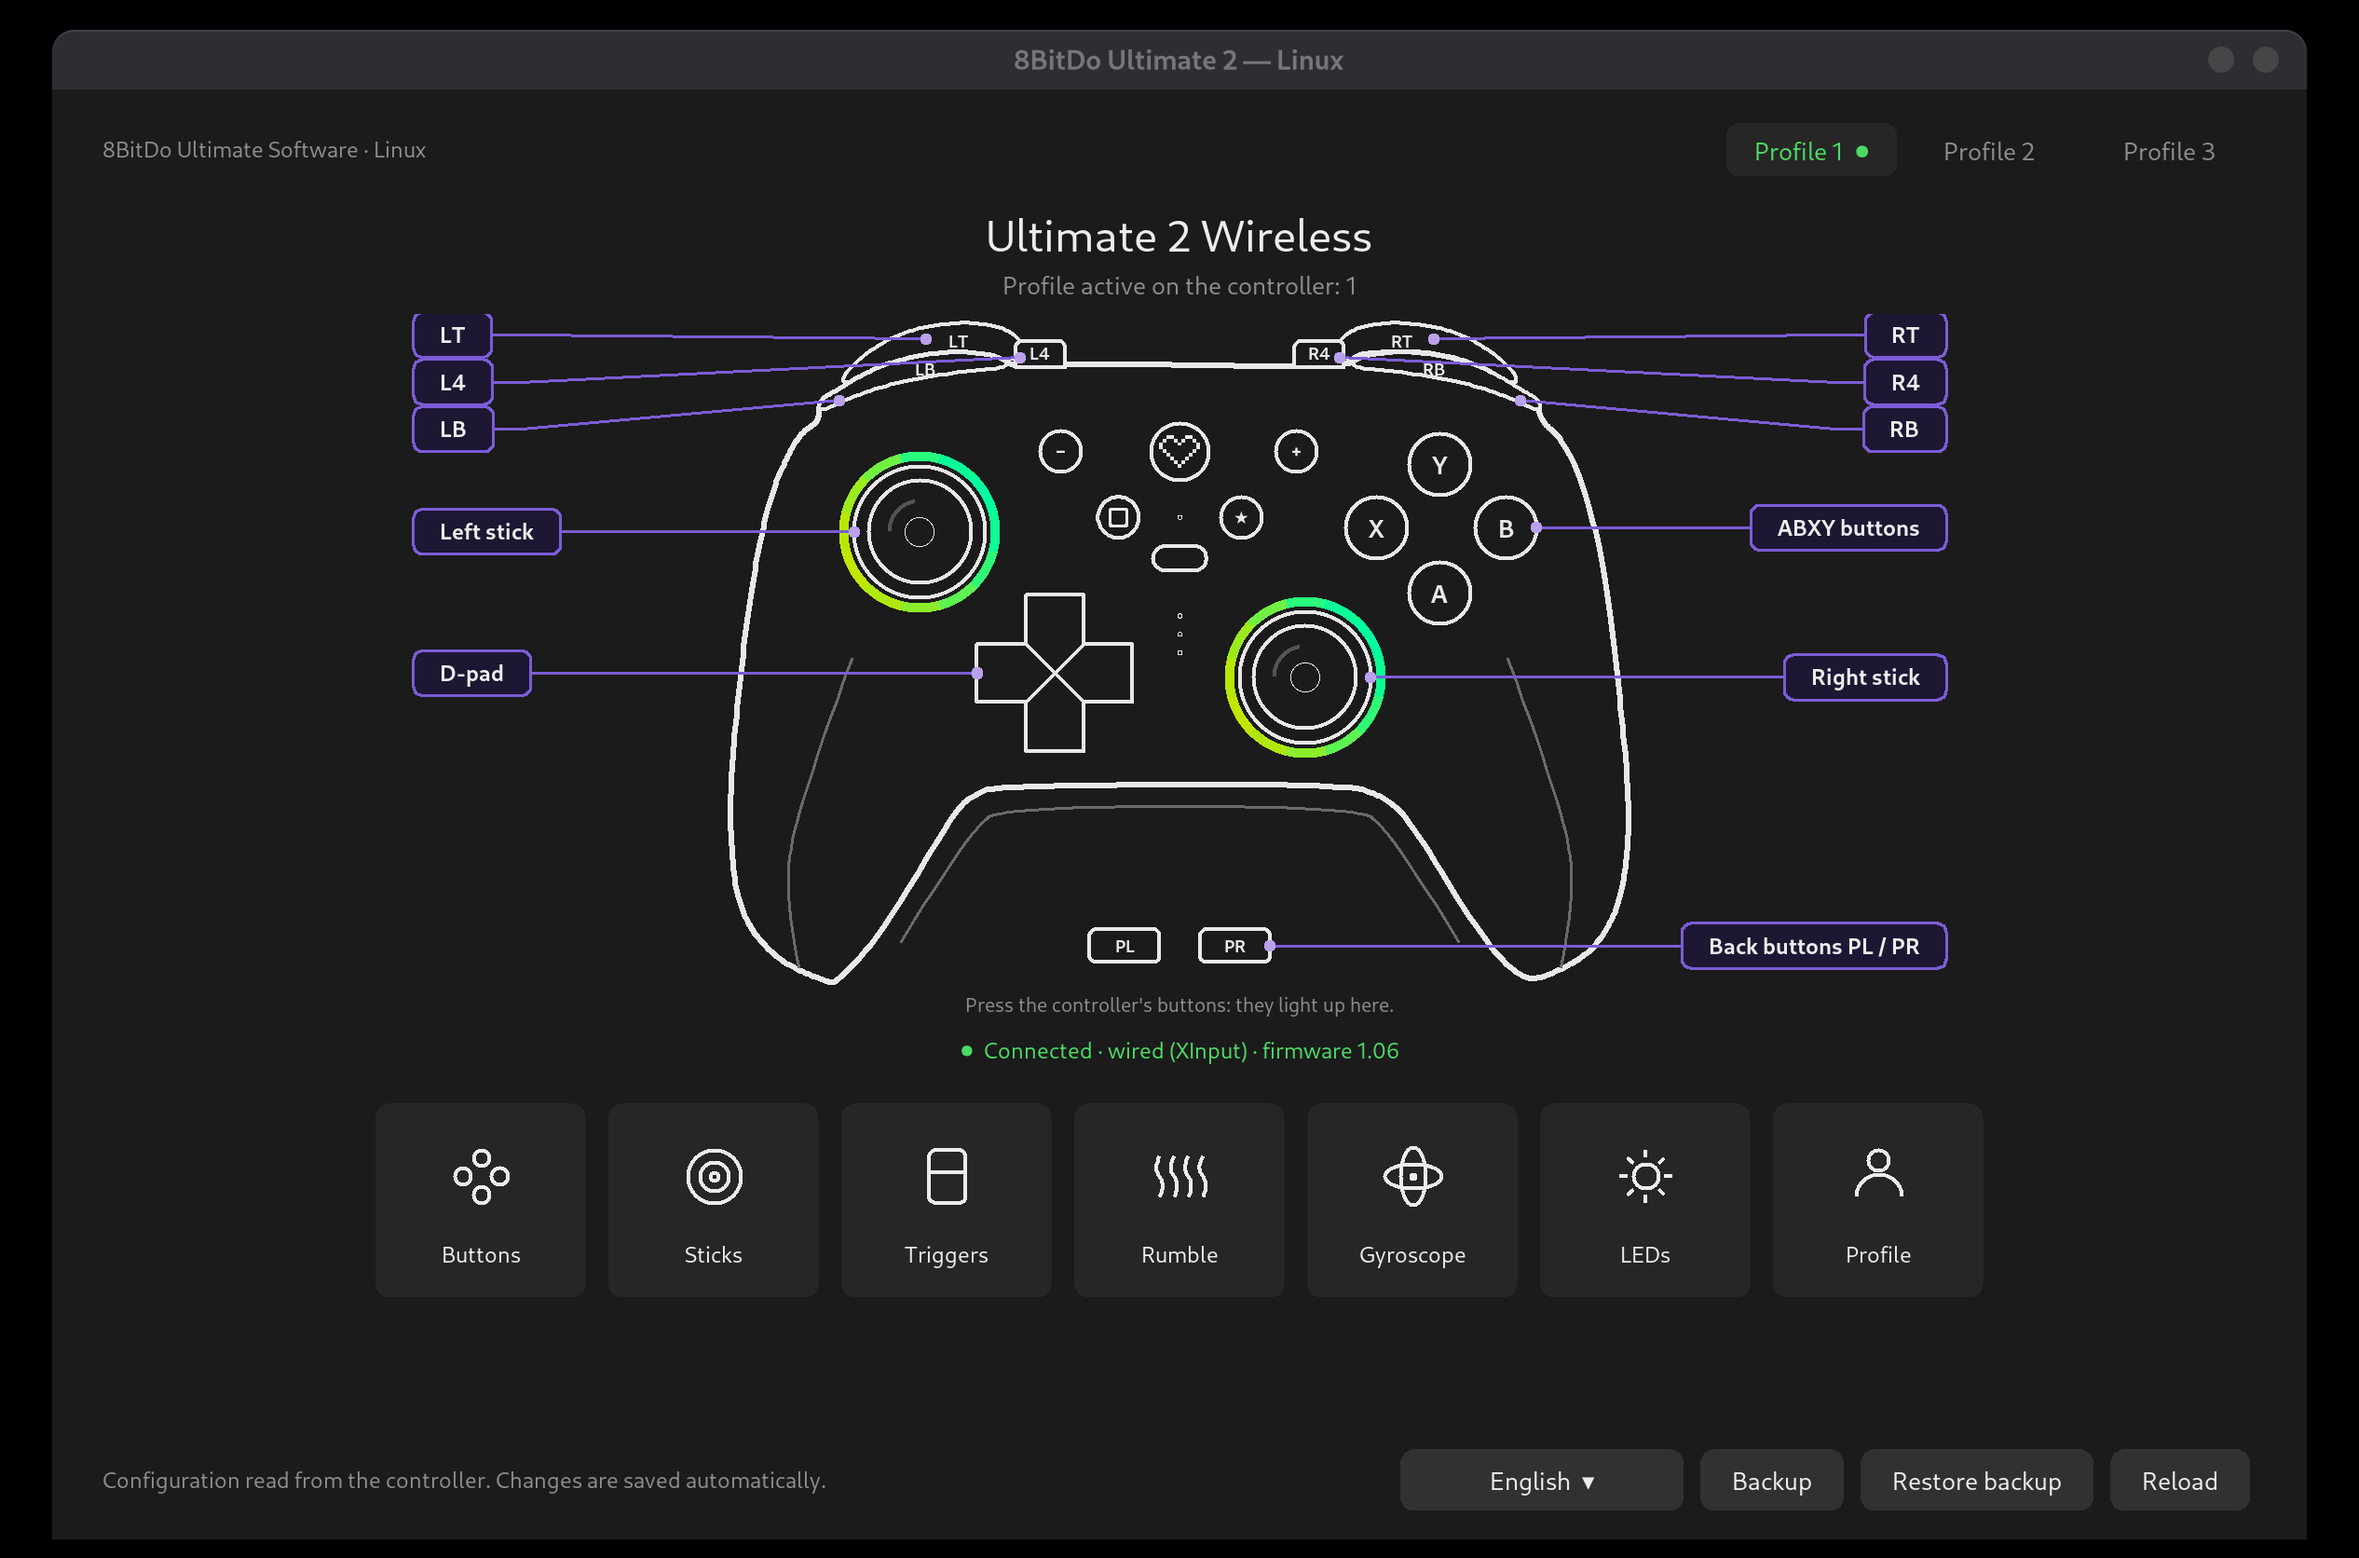
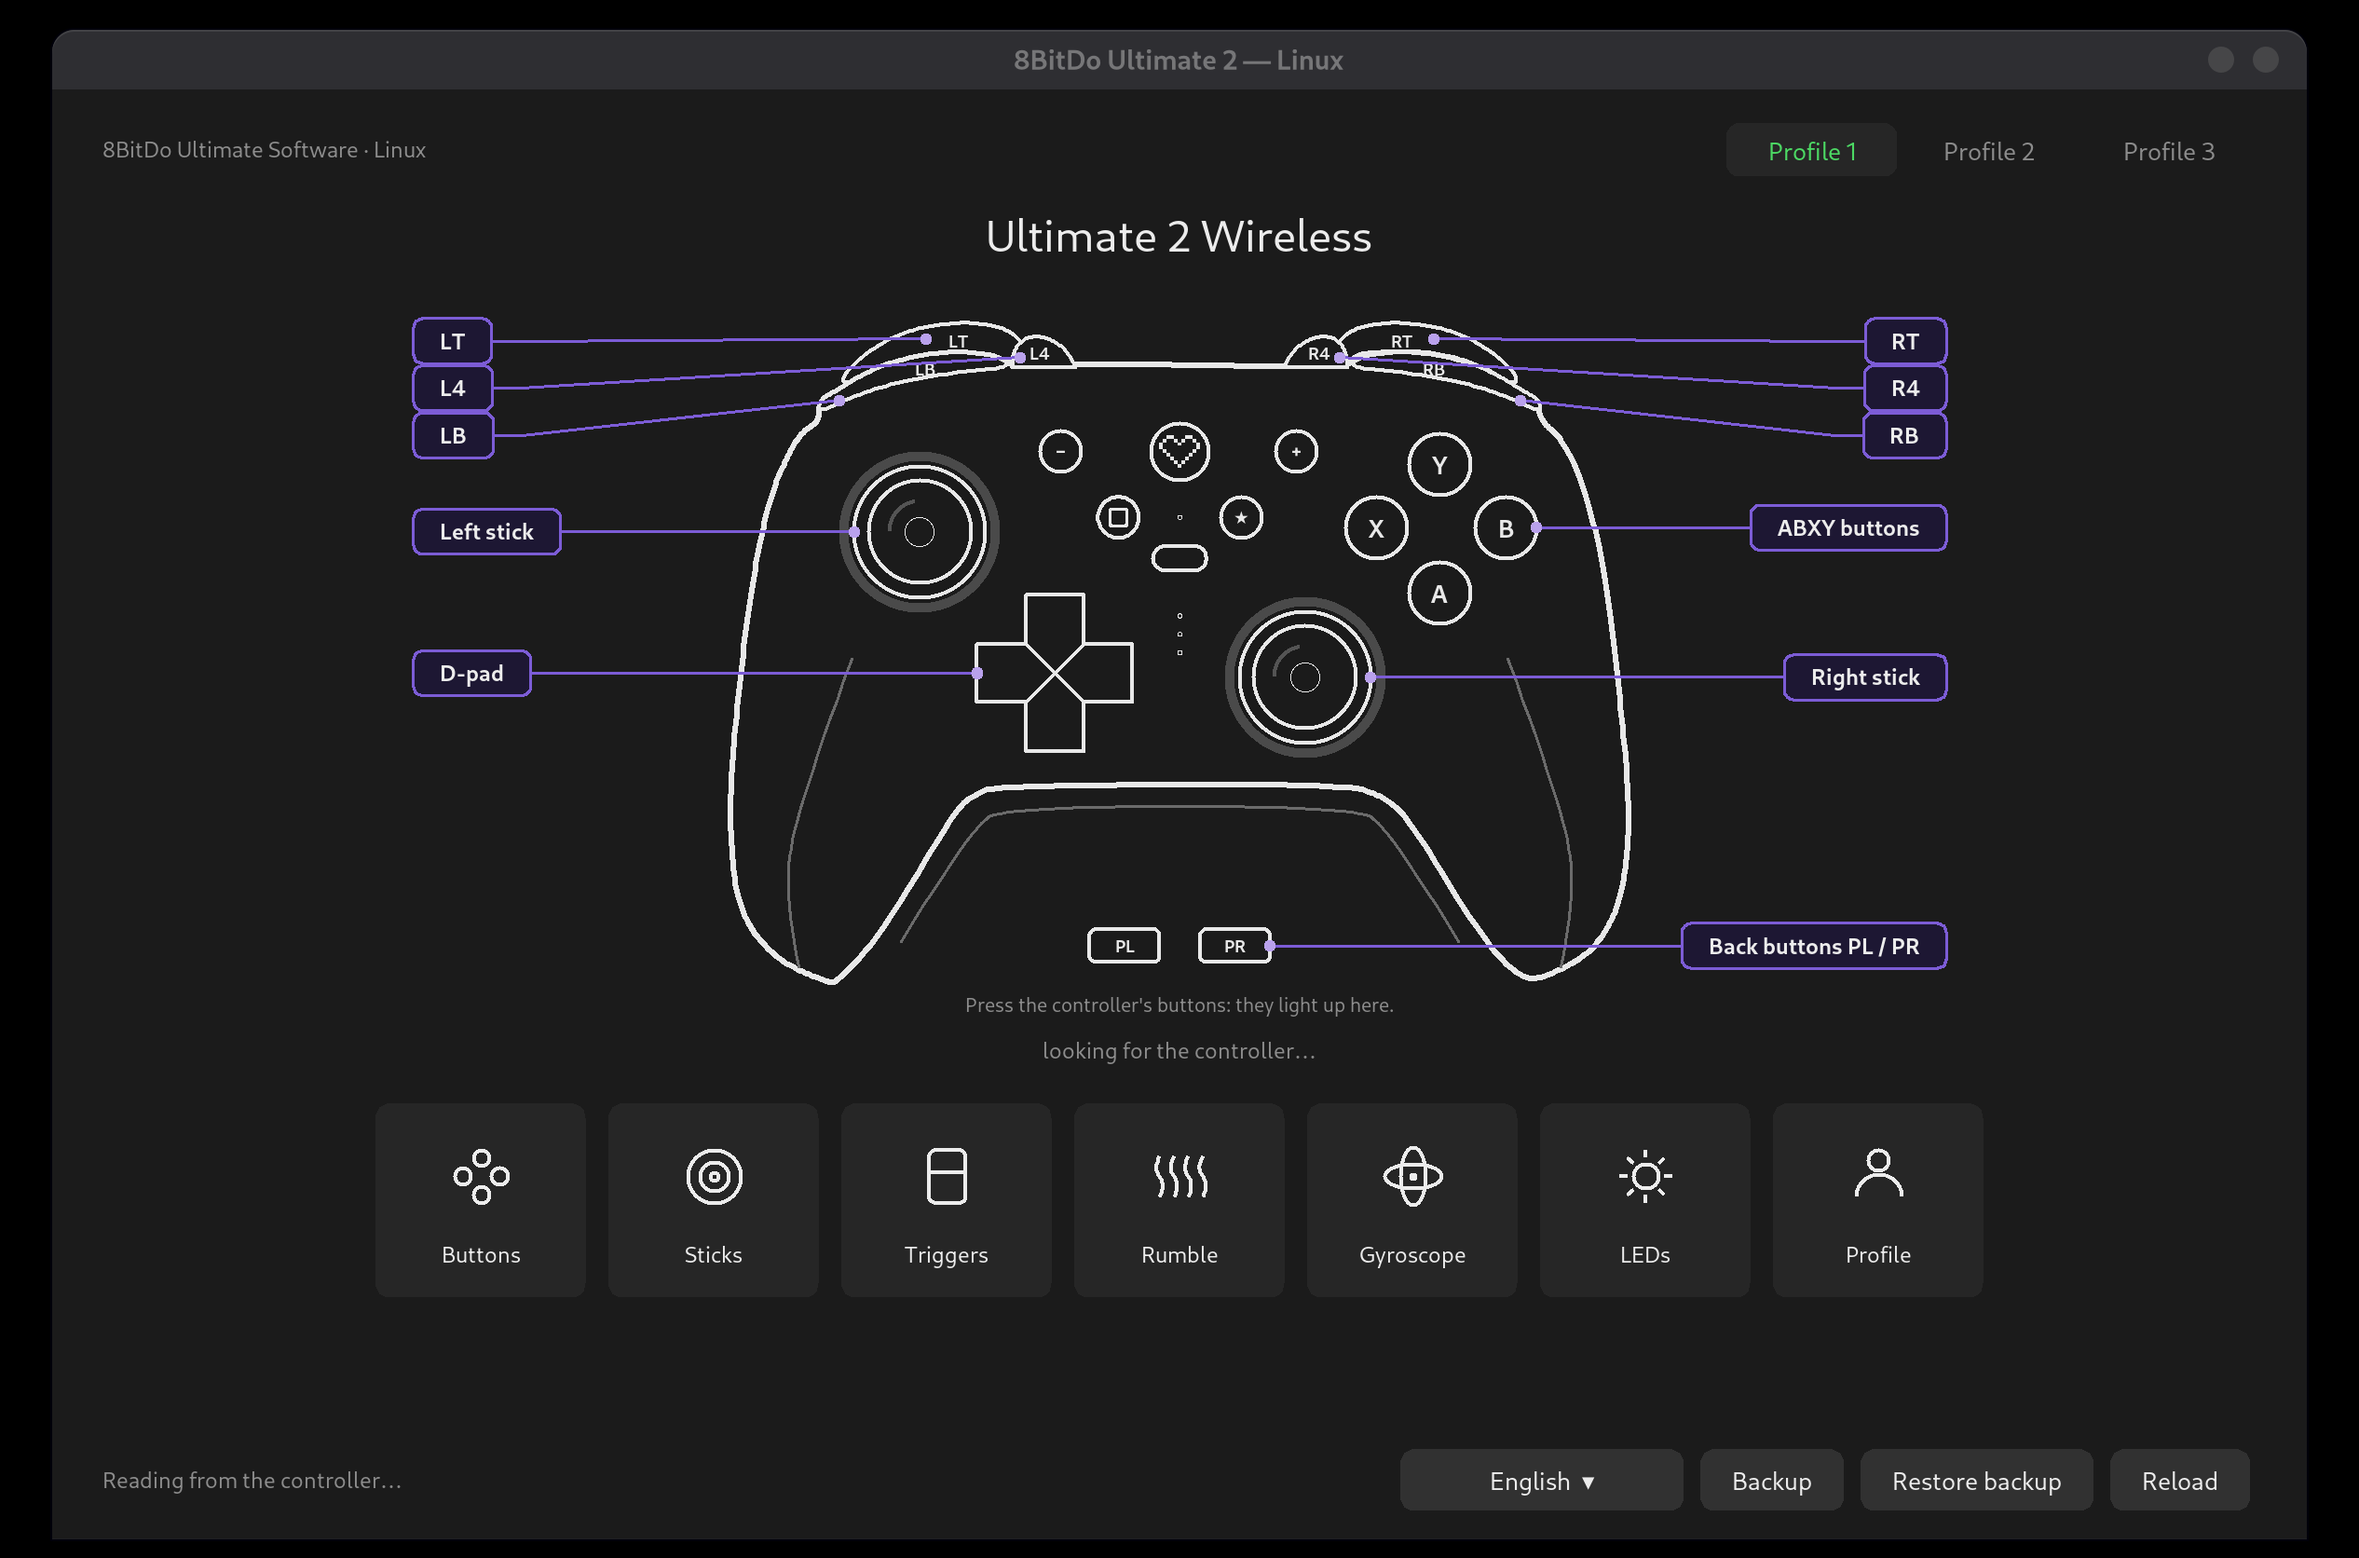
GUI: LT/RT callout cards no longer clipped at the top

diff --git a/src/ultimate2/gui/geometry.py b/src/ultimate2/gui/geometry.py
@@ -64,9 +64,9 @@ DETAILS = [((60, 168), (36, 233), (26, 280), (34, 318)), ((380, 168), (404, 233)
            ((84, 306), (118, 250), (136, 240), (304, 240), (322, 250), (356, 306))]
 
 # home-page callouts: label, side, label y, target point on the controller, button (or "sticks") opened on click
-CALLOUTS = [("LT", "l", 10, (96, 12), "LT"), ("L4", "l", 33, (142, 21), "P3"), ("LB", "l", 56, (54, 42), "LB"),
+CALLOUTS = [("LT", "l", 13, (96, 12), "LT"), ("L4", "l", 36, (142, 21), "P3"), ("LB", "l", 59, (54, 42), "LB"),
             ("Analógico esquerdo", "l", 106, (61, 106), "sticks"), ("D-pad", "l", 175, (121, 175), "Up"),
-            ("RT", "r", 10, (344, 12), "RT"), ("R4", "r", 33, (298, 21), "P4"), ("RB", "r", 56, (386, 42), "RB"),
+            ("RT", "r", 13, (344, 12), "RT"), ("R4", "r", 36, (298, 21), "P4"), ("RB", "r", 59, (386, 42), "RB"),
             ("Botões ABXY", "r", 104, (394, 104), "A"), ("Analógico direito", "r", 177, (313, 177), "sticks"),
             ("Traseiros PL / PR", "r", 308, (264, 308), "P1")]
 HOME_OFFSET = 160                # room for the callouts left of the drawing

diff --git a/tests/gui/test_theme.py b/tests/gui/test_theme.py
@@ -39,3 +39,4 @@ def test_geometry_parts_fit_the_box():
     for pts in (geometry.BODY, geometry.LB_PTS, geometry.LT_PTS):
         assert all(0 <= x <= geometry.WIDTH and 0 <= y <= geometry.HEIGHT for x, y in pts)
     assert all(target in geometry.PARTS or target == "sticks" for *_, target in geometry.CALLOUTS)
+    assert all(12 <= y <= geometry.HEIGHT - 12 for _t, _s, y, *_ in geometry.CALLOUTS)   # 22-unit cards + outline fit
